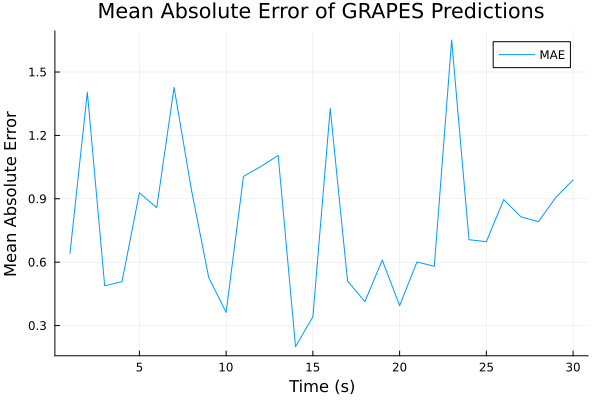
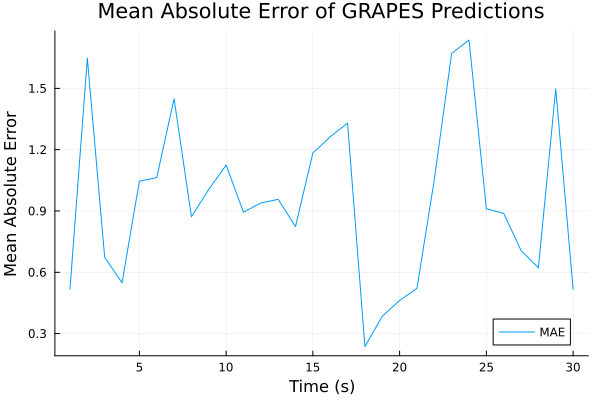
Added many more stations, reduced MAE.

diff --git a/README.md b/README.md
@@ -224,14 +224,16 @@ We can see at around 23 seconds most stations are picking up a signal, so we wil
 
 ![alt text](figures/GRAPES_plot.png)
 
-The stations seem to be over predicting and under predicting, now looking at the MAE plot:
+The station predictions seem to be generally underpredicting. 
 
 ![alt text](figures/GRAPES_MAE_plot.png)
 
-We can see a very large MAE value at 24 seconds.
+The MAE value is around 0.4, this is rather good for the small number of channels we are using!
 
 ## Conclusions
-There is still much work to be done on this model! GRAPES requires a high station count to allow more neighbors in the set up of the model. With preprocessing already set up and put into a function with a little more time and adding more stations I predict there would be better, more accurate results. Over the summer I will update this repository with many more channels and I assume there will be a much nicer, more accurate prediction being made by GRAPES.
+GRAPES has the potential to become a highly accurate and powerful earthquake early warning model. Currently, with just around 30 stations, the system delivers impressive results. Washington's existing infrastructure offers an opportunity to expand the number of channels, which would further enhance the model's predictive accuracy.
+
+The success of GRAPES with data from regions like Japan, Italy, and California demonstrates its broad applicability, particularly when it benefits from a high density of monitoring stations. Given more time, I aim to analyze peak seismic amplitudes in relation to station predictions and develop a comprehensive map of ground motion around each station. This map would be invaluable for assessing risk factors and improving preparedness for areas vulnerable to significant seismic events.
 
 Many thanks to Timothy Clements and Steven Walters for their contributions to my project and thank you to Marine Denolle for advising me and helping me with this throughout the quarter!
 
